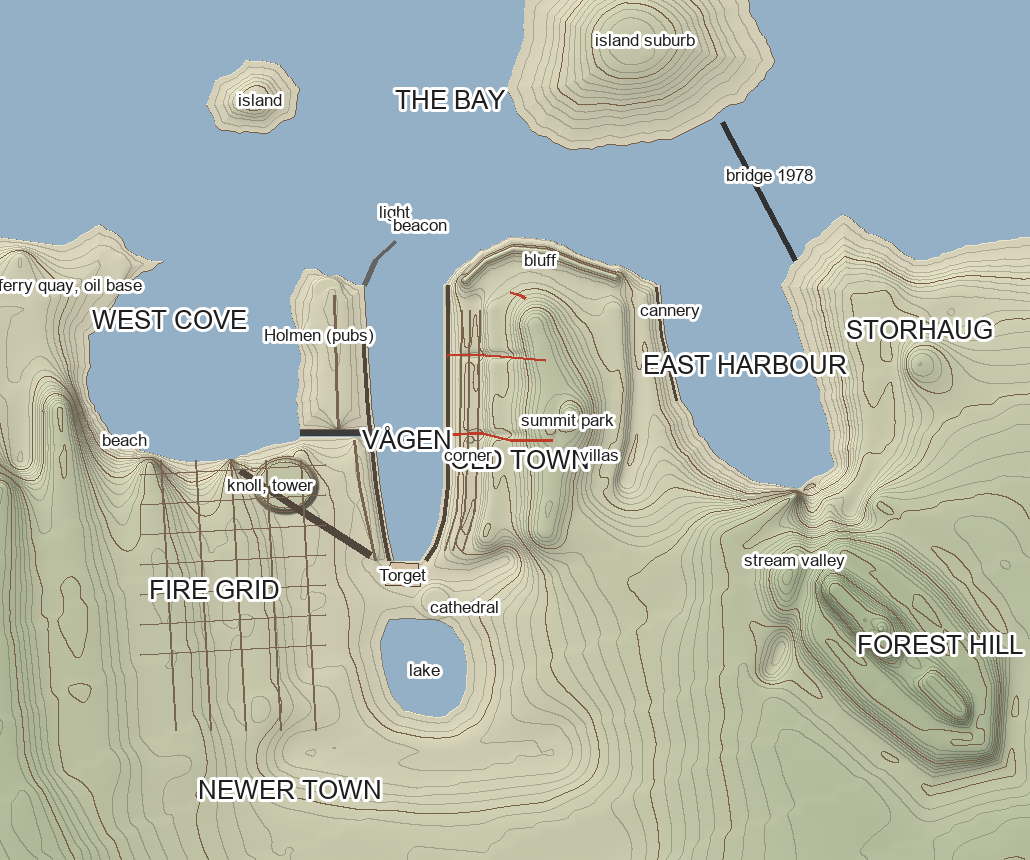
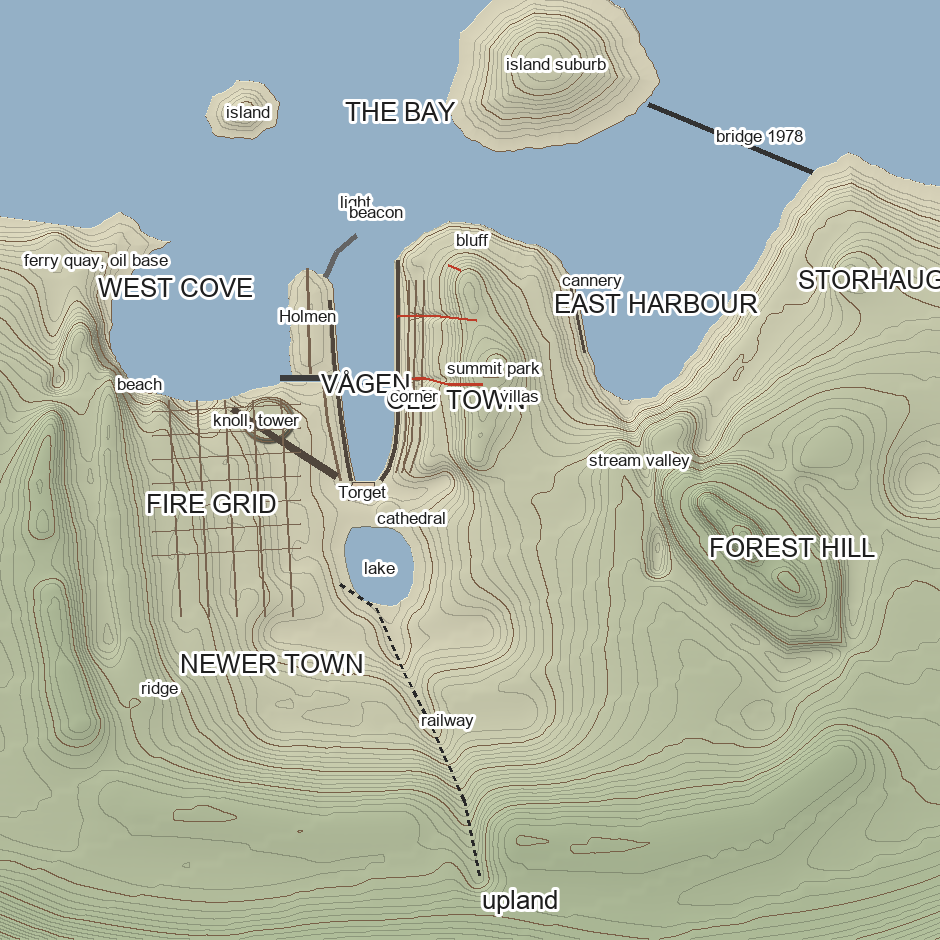
LT1: the centre's land: east harbour opening north-east, Holmen short, the railway's valley, a broad ridge, the upland and far range; the skyline from the bay checked in layers

diff --git a/blender/blockouts/centre_land.py b/blender/blockouts/centre_land.py
@@ -37,20 +37,20 @@ COAST = [
     # the old town's point: rock round its tip below the bluff
     (-250, -15, "n"), (-280, 10, "n"), (-322, 60, "n"), (-348, 120, "n"), (-342, 190, "n"), (-312, 260, "n"),
     (-292, 330, "n"), (-262, 390, "n"),
-    # the east harbour: the cannery's quays on its west side, a shingle beach at its head, slips on its east
-    (-250, 420, "q"), (-150, 430, "q"), (-20, 462, "n"), (80, 524, "n"), (140, 604, "n"), (156, 700, "n"),
-    (110, 768, "n"), (10, 750, "n"), (-120, 706, "n"), (-250, 660, "n"),
-    # Storhaug's shore and on east
-    (-330, 710, "n"), (-392, 782, "n"), (-346, 860, "n"), (-300, 930, "n"), (-330, 1030, "n"), (-380, 1400, "m"),
+    # the east harbour, opening north-east: the cannery's quays along the old town hill's east side, a shingle
+    # beach where the stream comes in at its head, slips on Storhaug's side, Storhaug's point far out to the north-east
+    (-210, 430, "q"), (-120, 452, "q"), (-20, 470, "n"), (60, 500, "n"), (100, 560, "n"), (90, 640, "n"),
+    (30, 700, "n"), (-60, 760, "n"), (-160, 830, "n"), (-260, 900, "n"), (-380, 960, "n"), (-470, 1030, "n"),
+    (-520, 1120, "n"), (-470, 1220, "n"), (-420, 1400, "m"),
     (-1400, 1400, "m"), (-1400, -1400, "m"),
 ]
 HOLMEN = [
-    (-250, -172, "q"), (0, -156, "q"), (40, -150, "q"), (40, -300, "n"), (-60, -304, "n"), (-150, -310, "n"),
-    (-220, -322, "n"), (-284, -292, "n"), (-270, -236, "n"),
+    (-190, -168, "q"), (0, -156, "q"), (40, -150, "q"), (40, -270, "n"), (-60, -276, "n"), (-130, -282, "n"),
+    (-190, -280, "n"), (-226, -246, "n"), (-216, -200, "n"),
 ]
 ISLAND_SUBURB = [
     (-560, 160, "n"), (-640, 110, "n"), (-720, 140, "n"), (-820, 150, "n"), (-900, 230, "n"), (-950, 330, "n"),
-    (-930, 450, "n"), (-880, 560, "n"), (-780, 610, "n"), (-700, 650, "n"), (-620, 590, "n"), (-580, 520, "q"),
+    (-930, 450, "n"), (-880, 560, "n"), (-780, 610, "n"), (-700, 650, "n"), (-620, 590, "n"), (-600, 560, "q"),
     (-540, 440, "n"), (-530, 330, "n"), (-520, 240, "n"),
 ]
 SMALL_ISLAND = [
@@ -61,9 +61,13 @@ ISLANDS = [(HOLMEN, 8.0), (ISLAND_SUBURB, 26.0), (SMALL_ISLAND, 12.0)]
 LAKE = [(420, -122, "n"), (470, -140, "n"), (520, -132, "n"), (570, -116, "n"), (600, -92, "n"), (612, -40, "n"),
         (612, -10, "n"), (590, 18, "n"), (560, 30, "n"), (510, 34, "n"), (470, 26, "n"), (436, 4, "n"), (420, -30, "n")]
 LAKE_LEVEL = 5.0
-BRIDGE = [(-300, 690), (-575, 545)]  # the high bridge of 1978, from Storhaug's point to the island
-BREAKWATER = [(-250, -172), (-300, -150), (-338, -110)]  # sheltering Vågen's mouth, a light at its end
-LIGHT = (-338, -110)
+# the mountains far off to the east and south-east, seen over the upland: (compass bearing in degrees from the
+# old town's summit, height in metres, distance in metres). Too far for the ground; drawn as the backdrop.
+FAR_RANGE = [(60, 380, 22000), (80, 620, 26000), (95, 840, 30000), (110, 760, 28000), (125, 980, 34000),
+             (140, 700, 30000), (155, 520, 26000), (170, 420, 24000), (185, 300, 22000)]
+BRIDGE = [(-470, 1030), (-640, 620)]  # the high bridge of 1978, from Storhaug's point to the island
+BREAKWATER = [(-206, -186), (-270, -160), (-312, -110)]  # from Holmen's tip, sheltering Vågen's mouth, a light at its end
+LIGHT = (-312, -110)
 
 
 def _shore(points, closed=True, amp=9.0, seed=7):
@@ -114,8 +118,8 @@ CONTOURS = [
     (38.0, [(-170, 170), (-60, 200), (60, 214), (180, 200), (240, 190)]),
     (20.0, [(-200, 86), (-60, 92), (60, 96), (180, 90), (250, 70)]),
     (10.0, [(-215, 50), (-60, 52), (60, 54), (190, 46), (260, 30)]),
-    (20.0, [(-200, 330), (-60, 336), (60, 330), (150, 310)]),
-    (10.0, [(-220, 372), (-60, 380), (60, 372), (140, 350)]),
+    (20.0, [(-210, 340), (-80, 370), (20, 400), (80, 440)]),
+    (10.0, [(-220, 390), (-90, 420), (10, 444), (70, 470)]),
     (24.0, [(-262, 30), (-300, 70), (-324, 125), (-318, 195), (-290, 262), (-268, 330)]),  # the bluff's top edge
     (3.0, [(-276, 30), (-314, 70), (-338, 125), (-332, 195), (-304, 262), (-282, 330)]),   # its foot: a rock face
     # the saddle from the hill's back to the forest hill
@@ -128,7 +132,13 @@ CONTOURS = [
     (22.0, [(100, -440), (250, -430), (400, -410), (600, -390)]),
     (32.0, [(110, -600), (300, -580), (500, -560), (700, -540)]),
     (40.0, [(0, -780), (300, -760), (700, -720)]),
-    (54.0, [(160, -900), (420, -930), (700, -900), (900, -820)]),  # the ridge behind the fire grid
+    # the ridge behind the fire grid: broad, with a spur towards the cove and a notch where a road crosses
+    (50.0, [(40, -720), (240, -740), (440, -730), (640, -700), (840, -660)]),
+    (64.0, [(100, -860), (300, -900), (420, -890)]),
+    (58.0, [(480, -880), (520, -885)]),
+    (66.0, [(580, -870), (760, -840), (900, -800)]),
+    (40.0, [(-60, -800), (40, -880)]),
+    (52.0, [(120, -1060), (400, -1120), (800, -1060)]),
     # west of the cove: the ferry quay's low ground, the oil base, the coast
     (6.0, [(-300, -660), (-150, -660), (0, -660)]),
     (16.0, [(-300, -860), (-100, -860), (100, -860)]),
@@ -137,24 +147,37 @@ CONTOURS = [
     (12.0, [(680, -300), (700, -60), (680, 200)]),
     (24.0, [(880, -300), (900, 0), (880, 300)]),
     # Storhaug, east of the east harbour
-    (20.0, [(-220, 860), (-60, 880), (80, 860), (200, 800)]),
+    (20.0, [(-340, 1080), (-180, 980), (-20, 880), (120, 800), (220, 760)]),
     # the forest hill, south-east
+    # the upland to the south, the skyline seen from the bay behind the near hills: a long ridge with spurs
+    # and a pass where the railway goes through
+    (60.0, [(1100, -700), (1150, -400), (1180, -200), (1170, 0)]),
+    (70.0, [(1200, 300), (1220, 600), (1150, 900), (1000, 1100)]),
+    (120.0, [(1500, -1300), (1640, -900), (1700, -500), (1720, -260)]),
+    (96.0, [(1680, -120), (1700, 20)]),                   # the pass the railway goes through
+    (160.0, [(1760, 160), (1900, 420), (1980, 640), (1940, 900)]),
+    (185.0, [(2050, 520), (2080, 600)]),                  # the upland's top
+    (140.0, [(1880, 1060), (1760, 1300), (1620, 1600)]),
+    (150.0, [(2400, -1400), (2500, -400), (2500, 800), (2300, 1900)]),
     # the forest hill: a ridge with two summits and a saddle, steep on its north-west side over Storhaug
     (82.0, [(360, 770), (420, 830), (470, 880)]),
     (74.0, [(540, 960), (600, 1020)]),
     (66.0, [(500, 920), (520, 940)]),
     (60.0, [(300, 720), (340, 690), (420, 740), (520, 840), (640, 960), (660, 1060), (560, 1060), (440, 960), (330, 860), (290, 790)]),
     (40.0, [(170, 690), (260, 560), (420, 600), (600, 760), (760, 960), (720, 1120), (480, 1140), (300, 1000), (190, 860)]),
+    (55.0, [(620, 1020), (720, 1120), (820, 1180)]),   # a spur running on south-east
+    (50.0, [(280, 980), (220, 1080)]),                 # a spur towards Storhaug
 ]
 SPOTS = [
     (42.0, (40, 210)),     # the top of the old town's hill, the villas' plateau
-    (36.0, (-90, 940)),    # Storhaug's top
+    (36.0, (-220, 1120)),  # Storhaug's top
     (46.0, (10, 236)),     # the old town hill's summit: a small park and a viewpoint by the villas
+    (36.0, (-200, 170)),   # the bluff's top, where the hundred steps arrive: a second high point
+    (31.0, (-100, 190)),   # the saddle between them, where a lane crosses the spine
     (88.0, (440, 860)),    # the forest hill's summit, the water tower
     (16.0, (-200, 1000)),
     (30.0, (300, 1300)), (45.0, (900, 900)), (25.0, (-300, -1150)),
-    # the upland to the south: the town's skyline seen from the bay, a layer behind the near hills
-    (70.0, (1250, -600)), (95.0, (1350, -100)), (110.0, (1400, 400)), (90.0, (1300, 900)), (60.0, (1150, -1100)),
+
 ]
 OUTCROPS = [
     dict(name="the knoll", x=150.0, y=-330.0, r=60.0, face=14.0, top=30.0, sx=1.0, sy=1.15),
@@ -166,9 +189,13 @@ OUTCROPS = [
     dict(name="a skerry", x=-640.0, y=-60.0, r=10.0, face=5.0, top=3.0, sx=1.0, sy=1.0),
     dict(name="a skerry", x=-460.0, y=560.0, r=14.0, face=7.0, top=4.0, sx=1.0, sy=1.0),
 ]
-VALLEYS = [  # the stream from the forest hill's saddle down to the east harbour's head, in a green valley
-    dict(name="the stream valley", depth=9.0, width=26.0, line=[(520, 640), (420, 690), (320, 720), (230, 724), (156, 720)]),
+VALLEYS = [
+    # the stream from the forest hill's saddle down to the east harbour's head, in a green valley
+    dict(name="the stream valley", depth=9.0, width=26.0, line=[(520, 640), (420, 650), (320, 630), (200, 590), (110, 560)]),
+    # the lake's valley, carrying the railway south from the station
+    dict(name="the railway's valley", depth=7.0, width=40.0, line=[(600, -40), (760, 0), (920, 80), (1100, 160), (1300, 200)]),
 ]
+RAILWAY = [(560, -150), (620, -60), (760, 0), (920, 80), (1100, 160), (1300, 200)]  # the station by the lake
 GULLIES = [  # where the streams come down the old town's west slope to Vågen
     dict(x=49.3, depth=2.0, width=8.0, y0=10.0, y1=170.0),
     dict(x=-110.0, depth=2.6, width=9.0, y0=10.0, y1=170.0),
@@ -239,7 +266,7 @@ def heights(X, Y):
     den = np.zeros(X.shape)
 
     def add(z, d, p=2.2):
-        w = 1.0 / (d ** p + 4.0)
+        w = 1.0 / (d ** p + 900.0)  # soft within about 20 m of a line, so lines never pinch into stars
         num[...] += w * z
         den[...] += w
 
@@ -263,24 +290,19 @@ def heights(X, Y):
         Z -= g["depth"] * k * (Y > -15)
     for v in VALLEYS:
         d = _poly_dist(X, Y, v["line"], closed=False)
-        Z -= v["depth"] * np.exp(-(d / v["width"]) ** 2) * np.clip((Z - 1.0) / 6.0, 0.0, 1.0)
+        Z -= v["depth"] * np.exp(-(d / v["width"]) ** 2) * _smoothstep(2.0, 16.0, Z)
     rough = (_noise(X, Y, 60.0, 1989) * 0.65 + _noise(X + 500, Y, 23.0, 1990) * 0.35 - 0.5) * 2.0
     Z += rough * np.clip((Z - 4.0) / 10.0, 0.0, 1.0)
 
-    # bedrock standing up
+    # the water and the lake first, then bedrock standing up out of land and sea alike
+    W = water_mask(X, Y)
+    lake = _inside(LAKE_LINE, X, Y)
+    Z = np.where(W, -6.0, Z)
+    Z = np.where(lake, LAKE_LEVEL - 2.0, Z)
     for o in OUTCROPS:
         d = np.hypot((X - o["x"]) / o["sx"], (Y - o["y"]) / o["sy"])
         k = _smoothstep(o["r"], o["r"] - o["face"], d)
         Z = np.where(d < o["r"], np.maximum(Z, Z + (o["top"] - Z) * k), Z)
-
-    # the water, and the lake
-    W = water_mask(X, Y)
-    lake = _inside(LAKE_LINE, X, Y)
-    rock = np.zeros(X.shape, dtype=bool)
-    for o in OUTCROPS:
-        rock |= np.hypot((X - o["x"]) / o["sx"], (Y - o["y"]) / o["sy"]) < o["r"] - o["face"] * 0.5
-    Z = np.where(W & ~rock, -6.0, Z)
-    Z = np.where(lake, LAKE_LEVEL - 2.0, Z)
     return Z
 
 

diff --git a/blender/blockouts/centre_skyline.py b/blender/blockouts/centre_skyline.py
@@ -1,0 +1,59 @@
+"""A skyline check: the land seen from one point, near, middle and far hills in separate tones, to show the
+backdrop reads in layers. reviews/lt1/centre/skyline-from-bay.png.
+
+    python blender/blockouts/centre_skyline.py <out.png> <x> <y>   (needs numpy and Pillow)
+"""
+import sys, math
+sys.path.insert(0, "/Users/oystein/code/Overstory/blender/blockouts")
+import numpy as np
+import centre_land as L
+from PIL import Image, ImageDraw, ImageFont
+# from the bay, north of the old town's point, eye 4 m over the water, looking south (towards +x), 100 degrees wide
+ex, ey, ez = float(sys.argv[2]), float(sys.argv[3]), 4.0
+W, H = 1400, 420
+fov = math.radians(100)
+az = np.linspace(-fov / 2, fov / 2, W)          # 0 = towards +x (south); + = towards +y (east)
+dist = np.concatenate([np.arange(20, 600, 4), np.arange(600, 1600, 8), np.arange(1600, 3400, 16)])
+A, D = np.meshgrid(az, dist, indexing="ij")
+X = ex + D * np.cos(A); Y = ey - D * np.sin(A)   # screen right is west? keep: + angle -> -y (west) so the image is not mirrored
+Z = L.heights(X, Y)
+Z = np.maximum(Z, 0.0)
+ang = np.degrees(np.arctan2(Z - ez, D))          # elevation angle of every sample
+img = Image.new("RGB", (W, H), (226, 232, 238)); dr = ImageDraw.Draw(img)
+def ypix(a): return H - 60 - a * 26                  # 26 px per degree
+# the far range, as the backdrop: bearing in street axes (compass = 190 - street bearing in degrees)
+import math as _m
+far = np.full(W, -5.0)
+for i in range(W):
+    street_b = _m.degrees(-az[i])  # 0 = +x, positive = towards -y... matches X, Y above
+    comp = (190.0 - (_m.degrees(_m.atan2(-_m.sin(az[i]), _m.cos(az[i]))) * -1.0 + 0.0)) % 360
+best = None
+pts = sorted(L.FAR_RANGE)
+for i in range(W):
+    # compass bearing of this column: the column looks along street direction (cos a, -sin a)
+    sx, sy = _m.cos(az[i]), -_m.sin(az[i])
+    sb = _m.degrees(_m.atan2(sy, sx))           # street bearing: 0 along +x, 90 along +y
+    comp = (190.0 - sb) % 360                   # +x is compass 190, +y compass 100
+    for (b0, h0, d0), (b1, h1, d1) in zip(pts, pts[1:]):
+        if b0 <= comp <= b1:
+            t = (comp - b0) / (b1 - b0)
+            h = h0 + (h1 - h0) * t; d = d0 + (d1 - d0) * t
+            far[i] = _m.degrees(_m.atan2(h - ez - d * d / 12740000.0, d))  # earth's curve
+img0 = img
+for i in range(W):
+    if far[i] > -4:
+        dr.line([(W - 1 - i, ypix(far[i])), (W - 1 - i, H)], fill=(184, 192, 204))
+bands = [(1600, 3200, (150, 160, 175)), (600, 1600, (110, 120, 130)), (0, 600, (60, 66, 72))]
+for d0, d1, col in bands:
+    mask = (D >= d0) & (D < d1)
+    top = np.where(mask, ang, -5).max(axis=1)
+    for i in range(W):
+        dr.line([(W - 1 - i, ypix(top[i])), (W - 1 - i, H)], fill=col)
+dr.line([(0, ypix(0)), (W, ypix(0))], fill=(120, 150, 175), width=2)
+f = ImageFont.truetype("/System/Library/Fonts/Supplemental/Arial.ttf", 16)
+dr.text((10, 10), f"From the bay at ({ex:.0f}, {ey:.0f}) looking south, eye 4 m over the water. Dark: within 600 m. Mid: 600-1600 m. Light: 1600-3400 m. Palest: mountains 22-34 km. 26 px per degree.", fill=(30, 30, 30), font=f)
+for deg, name in [(-50, "east (Storhaug, forest hill)"), (0, "south (the town, Vågen's head)"), (50, "west (fire grid, ridge)")]:
+    xpix = W / 2 - deg / 100 * W
+    dr.text((xpix, H - 30), name, fill=(30, 30, 30), font=f, anchor="mm")
+img.save(sys.argv[1])
+print("ok")

diff --git a/blender/blockouts/centre_map.py b/blender/blockouts/centre_map.py
@@ -8,7 +8,7 @@ import numpy as np
 import centre_land as L
 from PIL import Image, ImageDraw, ImageFont
 t0 = time.time()
-X0, X1, Y0, Y1, step = -820, 900, -900, 1160, 2.0   # x down (south), y right (east)
+X0, X1, Y0, Y1, step = -900, 1450, -1000, 1350, 2.5   # x down (south), y right (east)
 xs = np.arange(X0, X1, step); ys = np.arange(Y0, Y1, step)
 XX, YY = np.meshgrid(xs, ys, indexing="ij")
 Z = L.heights(XX, YY)
@@ -49,7 +49,8 @@ line([(60, -10), (60, -150)], WATERWAY, 2, dash=True)                           
 line(L.BRIDGE, (50, 50, 50), 5)                                                           # the 1978 bridge
 line(L.BREAKWATER, (100, 100, 100), 5)
 line([(-236, 120), (-230, 140), (-224, 150)], STEP, 3)                                    # the hundred steps
-line([(-246, 412), (-150, 422), (-20, 452)], ROAD, 3)                                       # the east harbour's quay, the cannery
+line([(-206, 420), (-120, 440), (-20, 460)], ROAD, 3)
+line(L.RAILWAY, (40, 40, 40), 3, dash=True)                                       # the east harbour's quay, the cannery
 for off in (18, 34, 54):
     line([(-200, off + 4), (60, off), (200, off - 6), (280, off - 30)], LANE, 2)          # contour lanes
 line([(49, -6), (49, 20), (47, 38), (46, 64), (60, 120), (60, 205)], STEP, 3)            # Bakkesmauet to the top
@@ -68,13 +69,13 @@ def label(x, y, t, big=False):
     sx, sy = P(x, y)
     dr.text((sx, sy), t, fill=(255, 255, 255), font=f, anchor="mm", stroke_width=3, stroke_fill=(255, 255, 255))
     dr.text((sx, sy), t, fill=(30, 30, 30), font=f, anchor="mm")
-for x, y, t, big in [(-620, 0, "THE BAY", True), (60, -86, "VÅGEN", True), (-90, 590, "EAST HARBOUR", True),
-                     (-180, -560, "WEST COVE", True), (60, -650, "beach", False), (300, 690, "stream valley", False), (20, 236, "summit park", False), (-150, -262, "Holmen (pubs)", False), (150, -360, "knoll, tower", False),
+for x, y, t, big in [(-620, 0, "THE BAY", True), (60, -86, "VÅGEN", True), (-140, 640, "EAST HARBOUR", True),
+                     (-180, -560, "WEST COVE", True), (60, -650, "beach", False), (250, 600, "stream valley", False), (900, 120, "railway", False), (820, -600, "ridge", False), (1350, 300, "upland", True), (20, 236, "summit park", False), (-110, -230, "Holmen", False), (150, -360, "knoll, tower", False),
                      (360, -470, "FIRE GRID", True), (330, -95, "Torget", False), (395, 30, "cathedral", False),
                      (520, -50, "lake", False), (100, 140, "OLD TOWN", True), (90, 300, "villas", False),
-                     (-300, 180, "bluff", False), (-200, 440, "cannery", False), (-160, 940, "STORHAUG", True),
+                     (-300, 180, "bluff", False), (-200, 480, "cannery", False), (-200, 1180, "STORHAUG", True),
                      (470, 980, "FOREST HILL", True), (-740, 390, "island suburb", False), (-620, -380, "island", False),
-                     (-470, 640, "bridge 1978", False), (-395, -110, "light", False), (-250, -760, "ferry quay, oil base", False),
+                     (-560, 900, "bridge 1978", False), (-395, -110, "light", False), (-250, -760, "ferry quay, oil base", False),
                      (760, -320, "NEWER TOWN", True), (90, 36, "corner", False), (-370, -60, "beacon", False)]:
     label(x, y, t, big)
 im.save(f"{sys.argv[1]}/centre-land-draft.png")

diff --git a/docs/town-plan.md b/docs/town-plan.md
@@ -35,7 +35,7 @@ The town is the size of Stavanger in 1989: about 95,000 people over a built area
 
 ## The land
 
-The town stands round a harbour bay that reaches into it in three inlets, so it is never a corridor with two sides: from most high places there is water in more than one direction. The inlets are Vågen in the middle, at Stavanger's scale (about 550 m long, 70 m wide at its head and 160 m at its mouth, lined with quays, bending gently); the east harbour beside it across the old town's hill, with the cannery's quays and a shingle beach at its head; and the west cove, with boatyards and slips on its natural shore. Between them stand three fingers of land: Holmen and the knoll on the west (the pubs), the old town's hill in the middle (water on three sides, its point a bluff over the bay), and Storhaug on the east (the working town). The points reach into the bay by different amounts. In the bay: an island with the island suburb, joined to Storhaug's point by the high bridge of 1978; a smaller island; skerries; a beacon on an islet and a light on the breakwater at Vågen's mouth. Built quays are straight; natural shore is rock and shingle, broken into small points and coves. The land's design is drawn as contours and spot heights in `blender/blockouts/centre_land.py` and mapped in `reviews/lt1/centre/`.
+The town stands round a harbour bay that reaches into it in three inlets, so it is never a corridor with two sides: from most high places there is water in more than one direction. The inlets are Vågen in the middle, at Stavanger's scale (about 550 m long, 70 m wide at its head and 160 m at its mouth, lined with quays, bending gently); the east harbour beside it across the old town's hill, with the cannery's quays and a shingle beach at its head; and the west cove, with boatyards and slips on its natural shore. Between them stand three fingers of land: Holmen and the knoll on the west (the pubs), the old town's hill in the middle (water on three sides, its point a bluff over the bay), and Storhaug on the east (the working town). The points reach into the bay by different amounts. In the bay: an island with the island suburb, joined to Storhaug's point by the high bridge of 1978; a smaller island; skerries; a beacon on an islet and a light on the breakwater at Vågen's mouth. Built quays are straight; natural shore is rock and shingle, broken into small points and coves. The land's design is drawn as contours and spot heights in `blender/blockouts/centre_land.py` and mapped in `reviews/lt1/centre/`. Inland, the stream comes down from the forest hill in a green valley to the east harbour's head, the railway runs south from the station by the lake in its own valley through a pass in the upland, and a broad ridge with a spur closes the fire grid's slope to the west. Seen from the bay, the skyline stands in layers (`reviews/lt1/centre/skyline-from-bay.png`): the old town's hill near, the fire grid's ridge and the forest hill behind it, and the upland at 150 to 185 m behind them, showing through the gap over Vågen's head; the mountains, 20 to 35 km off, show from the high places.
 
 The ground has a different section in every area. The old town's hill is the steepest: from Vågen's quay it climbs at 15 to 20% to a spine at about 40 m (the villas), cut by two stream gullies and knuckles of bedrock, and falls more gently to the east harbour; at its point it ends in a bluff, a 20 m rock face over the bay. The forest hill rises inland to the south-east, a ridge with two summits (about 88 and 75 m) steep over Storhaug. The west is lower: Holmen a few metres above the water, cut off from the land by a narrow sund with a bridge; behind it a knoll of bare rock, 28 m, with its tower; and a gentle slope rising to about 30 m, carrying the fire grid. At the basin's head the ground is flat, made land, with the cathedral on a small rise and the lake in a hollow behind at 5 m. North of the outer harbour the land runs out to the oil base, then low islands and skerries in the fjord. Mountains only far off to the east.
 
